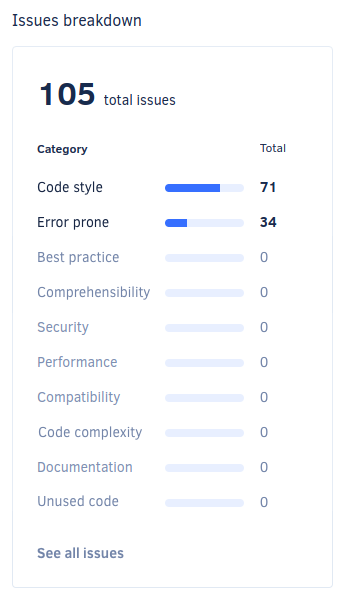
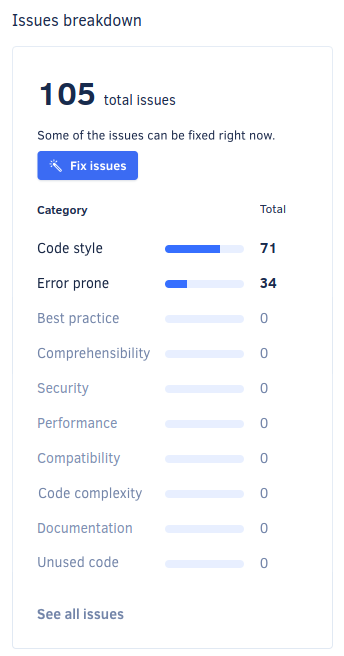
feat: Apply review feedback and add screenshots

diff --git a/docs/repositories/issues.md b/docs/repositories/issues.md
@@ -98,7 +98,9 @@ To restore an ignored issue, select **Unignore issue** from the options menu:
 
 !!! info "This section applies to GitHub repositories only"
 
-If Codacy detects code patterns that have suggested fixes, you can apply those fixes by clicking the **Fix issues** button above the issue list. This action opens a pull request including the suggested fixes and targeting the selected branch.
+If Codacy detects code patterns that have suggested fixes, a **Fix issues** button appears above the issue list. Click this button to open a pull request including the suggested fixes and targeting the selected branch.
+
+![Fix issues button](images/issues-fix-issues-button.png)
 
 ## See also
 

diff --git a/docs/repositories/pull-requests.md b/docs/repositories/pull-requests.md
@@ -51,7 +51,9 @@ Click a specific commit to see [detailed information about that commit](commits.
 
 !!! info "This section applies to GitHub repositories only"
 
-If Codacy detects code patterns that have suggested fixes, you can apply those fixes directly by clicking the **Fix issues** button above the issue list. This action commits the suggested fixes to the pull request.
+If Codacy detects code patterns that have suggested fixes, a **Fix issues** button appears above the issue list. Click this button to commit the suggested fixes to the pull request.
+
+![Fix issues button](images/issues-fix-issues-button.png)
 
 ## See also
 

diff --git a/docs/repositories/repository-dashboard.md b/docs/repositories/repository-dashboard.md
@@ -48,6 +48,8 @@ The **Issues breakdown** area displays the total number of issues found on the s
 
 Click **See all issues** to see the full [list of issues](issues.md) found, or click a category to see the issues in that category.
 
+If Codacy detects code patterns that have suggested fixes, a **Fix issues** button appears below the total issue count. Click this button to open a pull request including the suggested fixes and targeting the selected branch.
+
 ![Issues breakdown](images/repository-dashboard-issues-breakdown.png)
 
 ## Coverage
